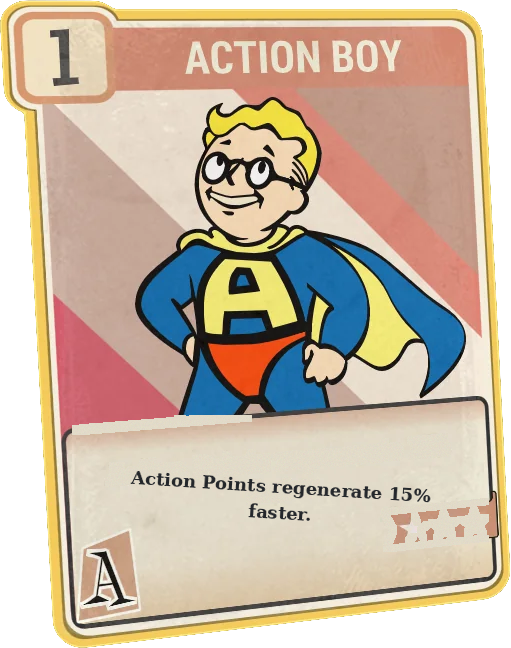
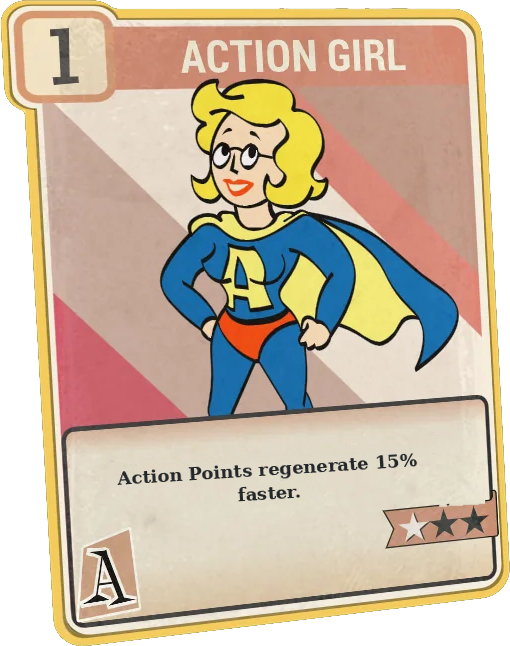
feat(perks): enable dynamic Vault Boy / Vault Girl profile swapping for gender-specific perks

diff --git a/src/lib/perks/catalog.test.ts b/src/lib/perks/catalog.test.ts
@@ -1,7 +1,7 @@
 import { describe, expect, it } from "vitest";
 import * as fs from "fs";
 import * as path from "path";
-import { getPerkCardById, searchPerkCards, filterPerksBySpecial, calculateSpecialCapacity, calculateLegendarySpecialBonuses } from "./catalog";
+import { getPerkCardById, searchPerkCards, filterPerksBySpecial, calculateSpecialCapacity, calculateLegendarySpecialBonuses, getGenderedPerkName } from "./catalog";
 import { getInGamePerkCardImage } from "./clean-perk-assets";
 
 describe("Perk Catalog Utilities", () => {
@@ -92,7 +92,12 @@ describe("1:1 In-Game Perk Card Asset Resolution Engine", () => {
       { id: "what-rads", rank: 4 },
       { id: "action-ghoul", rank: 1 },
       { id: "curator", rank: 1 },
-      { id: "woodchucker", rank: 1 }
+      { id: "woodchucker", rank: 1 },
+      { id: "action-girl", rank: 1 },
+      { id: "action-girl", rank: 3 },
+      { id: "aquagirl", rank: 1 },
+      { id: "party-girl", rank: 1 },
+      { id: "party-girl", rank: 2 },
     ];
 
     for (const { id, rank } of testCases) {
@@ -102,6 +107,46 @@ describe("1:1 In-Game Perk Card Asset Resolution Engine", () => {
       const fullPath = path.join(publicDir, relativePath);
       expect(fs.existsSync(fullPath), `Expected asset to exist: ${fullPath}`).toBe(true);
     }
+  });
+
+  it("should dynamically resolve gendered in-game perk cards based on isFemale flag", () => {
+    // Action Boy <-> Action Girl
+    expect(getInGamePerkCardImage("action-boy", 1, false)).toBe("/images/in_game_cards/action_boy_r1.png");
+    expect(getInGamePerkCardImage("action-boy", 1, true)).toBe("/images/in_game_cards/action_girl_r1.png");
+    expect(getInGamePerkCardImage("action-boy", 3, true)).toBe("/images/in_game_cards/action_girl_r3.png");
+    expect(getInGamePerkCardImage("action-girl", 1, false)).toBe("/images/in_game_cards/action_boy_r1.png");
+    expect(getInGamePerkCardImage("action-girl", 2, true)).toBe("/images/in_game_cards/action_girl_r2.png");
+
+    // Aquaboy <-> Aquagirl
+    expect(getInGamePerkCardImage("aquaboy", 1, false)).toBe("/images/in_game_cards/aquaboy_r1.png");
+    expect(getInGamePerkCardImage("aquaboy", 1, true)).toBe("/images/in_game_cards/aquagirl_r1.png");
+    expect(getInGamePerkCardImage("aquagirl", 1, false)).toBe("/images/in_game_cards/aquaboy_r1.png");
+    expect(getInGamePerkCardImage("aquagirl", 1, true)).toBe("/images/in_game_cards/aquagirl_r1.png");
+
+    // Party Boy <-> Party Girl
+    expect(getInGamePerkCardImage("party-boy", 1, false)).toBe("/images/in_game_cards/party_boy_r1.png");
+    expect(getInGamePerkCardImage("party-boy", 1, true)).toBe("/images/in_game_cards/party_girl_r1.png");
+    expect(getInGamePerkCardImage("party-boy", 2, true)).toBe("/images/in_game_cards/party_girl_r2.png");
+    expect(getInGamePerkCardImage("party-girl", 1, false)).toBe("/images/in_game_cards/party_boy_r1.png");
+    expect(getInGamePerkCardImage("party-girl", 2, true)).toBe("/images/in_game_cards/party_girl_r2.png");
+  });
+
+  it("should properly swap gendered perk names bidirectionally", () => {
+    // Male -> Female
+    expect(getGenderedPerkName("Action Boy", true)).toBe("Action Girl");
+    expect(getGenderedPerkName("Aquaboy", true)).toBe("Aquagirl");
+    expect(getGenderedPerkName("Party Boy", true)).toBe("Party Girl");
+
+    // Female -> Male
+    expect(getGenderedPerkName("Action Girl", false)).toBe("Action Boy");
+    expect(getGenderedPerkName("Aquagirl", false)).toBe("Aquaboy");
+    expect(getGenderedPerkName("Party Girl", false)).toBe("Party Boy");
+
+    // Idempotent when flag matches
+    expect(getGenderedPerkName("Action Girl", true)).toBe("Action Girl");
+    expect(getGenderedPerkName("Action Boy", false)).toBe("Action Boy");
+    expect(getGenderedPerkName("Bloody Mess", true)).toBe("Bloody Mess");
+    expect(getGenderedPerkName("Bloody Mess", false)).toBe("Bloody Mess");
   });
 });
 

diff --git a/src/lib/perks/perk-artwork.ts b/src/lib/perks/perk-artwork.ts
@@ -1,16 +1,8 @@
-import { SpecialCategory } from "@/lib/perks/catalog";
+import { SpecialCategory, getGenderedPerkName } from "@/lib/perks/catalog";
 import wikiArtMap from "./wiki-268-art-map.json";
 import exactArtMap from "./exact-268-art-map.json";
 
-export function getGenderedPerkName(name: string, isFemale = false): string {
-  if (!isFemale || !name) return name;
-  const lower = name.toLowerCase().trim();
-  if (lower === "action boy" || lower === "action-boy" || lower === "actionboy") return "Action Girl";
-  if (lower === "aquaboy" || lower === "aqua-boy" || lower === "aquaboy-aquagirl") return "Aquagirl";
-  if (lower === "party boy" || lower === "party-boy" || lower === "partyboy") return "Party Girl";
-  if (lower === "lady killer" || lower === "lady-killer" || lower === "ladykiller") return "Black Widow";
-  return name;
-}
+export { getGenderedPerkName };
 
 // 100% 1:1 Official In-Game WebP Artwork Loader for all 268 Perk Cards
 export function getPerkCardArtworkUrl(cardId: string, special: SpecialCategory, isFemale = false): string {
@@ -20,11 +12,15 @@ export function getPerkCardArtworkUrl(cardId: string, special: SpecialCategory, 
   
   let raw = cardId.toLowerCase().trim();
 
-  // Female Vault Girl Card Variant Swapping
+  // Dynamic Vault Boy / Vault Girl Variant Swapping
   if (isFemale) {
     if (raw === "action-boy" || raw === "action boy" || raw === "actionboy" || raw === "action-girl" || raw === "action girl" || raw === "actiongirl") raw = "action-girl";
     else if (raw === "party-boy" || raw === "party boy" || raw === "partyboy" || raw === "party-girl" || raw === "party girl" || raw === "partygirl") raw = "party-girl";
     else if (raw === "aquaboy" || raw === "aqua-boy" || raw === "aquaboy-aquagirl" || raw === "aquaticconcealment" || raw === "aquagirl" || raw === "aqua-girl") raw = "aquagirl";
+  } else {
+    if (raw === "action-boy" || raw === "action boy" || raw === "actionboy" || raw === "action-girl" || raw === "action girl" || raw === "actiongirl") raw = "action-boy";
+    else if (raw === "party-boy" || raw === "party boy" || raw === "partyboy" || raw === "party-girl" || raw === "party girl" || raw === "partygirl") raw = "party-boy";
+    else if (raw === "aquaboy" || raw === "aqua-boy" || raw === "aquaboy-aquagirl" || raw === "aquaticconcealment" || raw === "aquagirl" || raw === "aqua-girl") raw = "aquaboy";
   }
 
   const kebab = raw.replace(/\s+/g, "-").replace(/[^a-z0-9-]/g, "");

diff --git a/src/lib/perks/clean-perk-assets.ts b/src/lib/perks/clean-perk-assets.ts
@@ -82,7 +82,11 @@ export function getGhoulPerkCardImage(cardIdOrName?: string, rank: number = 1): 
 export const IN_GAME_STRAIGHT_CARDS: Record<string, string> = {
   // Standard & Reworked Perks (Official Bethesda Live Mechanics)
   "action-boy": "action_boy",
-  "action-girl": "action_boy",
+  "action-girl": "action_girl",
+  "aquaboy": "aquaboy",
+  "aquagirl": "aquagirl",
+  "party-boy": "party_boy",
+  "party-girl": "party_girl",
   "action-ghoul": "action_ghoul",
   "bullet-storm": "bullet_storm",
   "heavy-gunner": "bullet_storm",
@@ -152,10 +156,34 @@ export const IN_GAME_STRAIGHT_CARDS: Record<string, string> = {
   "feral-rage": "feral_rage",
 };
 
-export function getInGamePerkCardImage(cardIdOrName?: string, rank: number = 1): string | null {
+export function getInGamePerkCardImage(
+  cardIdOrName?: string,
+  rank: number = 1,
+  isFemale?: boolean
+): string | null {
   if (!cardIdOrName) return null;
   const key = cardIdOrName.toLowerCase().trim().replace(/[\s_]+/g, "-").replace(/[^a-z0-9-]/g, "");
-  const baseName = IN_GAME_STRAIGHT_CARDS[key] || key.replace(/-/g, "_");
+  let baseName = IN_GAME_STRAIGHT_CARDS[key] || key.replace(/-/g, "_");
+
+  // Dynamic gender swapping between Vault Boy and Vault Girl profiles
+  if (isFemale === true) {
+    if (key === "action-boy" || key === "action-girl" || key === "actionboy" || key === "actiongirl") {
+      baseName = "action_girl";
+    } else if (key === "aquaboy" || key === "aquagirl" || key === "aqua-boy" || key === "aqua-girl" || key === "aquaboy-aquagirl") {
+      baseName = "aquagirl";
+    } else if (key === "party-boy" || key === "party-girl" || key === "partyboy" || key === "partygirl") {
+      baseName = "party_girl";
+    }
+  } else if (isFemale === false) {
+    if (key === "action-boy" || key === "action-girl" || key === "actionboy" || key === "actiongirl") {
+      baseName = "action_boy";
+    } else if (key === "aquaboy" || key === "aquagirl" || key === "aqua-boy" || key === "aqua-girl" || key === "aquaboy-aquagirl") {
+      baseName = "aquaboy";
+    } else if (key === "party-boy" || key === "party-girl" || key === "partyboy" || key === "partygirl") {
+      baseName = "party_boy";
+    }
+  }
+
   const safeRank = Math.max(1, rank);
   return `/images/in_game_cards/${baseName}_r${safeRank}.png`;
 }

diff --git a/src/components/perks/in-game-perk-card.tsx b/src/components/perks/in-game-perk-card.tsx
@@ -364,7 +364,7 @@ export default function InGamePerkCard({
   // Check if official isolated vector foreground is available
   const cleanForeground = getCleanPerkForeground(cardId || name);
   const ghoulPerkImage = isGhoul ? getGhoulPerkCardImage(cardId || name, rank) : null;
-  const inGameCardImage = getInGamePerkCardImage(cardId || name, rank);
+  const inGameCardImage = getInGamePerkCardImage(cardId || name, rank, isFemale);
 
   const longPressTimerRef = React.useRef<NodeJS.Timeout | null>(null);
 
@@ -391,7 +391,7 @@ export default function InGamePerkCard({
     return { rank: inspectRank, cost, description };
   }, [fullCard, inspectRank, cost, description]);
 
-  const inGameInspectImage = getInGamePerkCardImage(cardId || name, inspectRankData.rank);
+  const inGameInspectImage = getInGamePerkCardImage(cardId || name, inspectRankData.rank, isFemale);
 
   const openWikiSource = React.useCallback(() => {
     window.open(`/wiki?q=${encodeURIComponent(name)}`, "_blank", "noopener,noreferrer");
@@ -659,7 +659,7 @@ export default function InGamePerkCard({
               <div className="space-y-1">
                 <div className="flex items-center gap-2">
                   <h3 className="text-lg sm:text-xl font-black uppercase text-amber-400 tracking-wider">
-                    {name}
+                    {displayName}
                   </h3>
                   <span className={`text-xs font-black px-2 py-0.5 rounded border uppercase ${theme.stampBg}`}>
                     {special}
@@ -696,7 +696,7 @@ export default function InGamePerkCard({
                   {inGameInspectImage ? (
                     <img
                       src={inGameInspectImage}
-                      alt={name}
+                      alt={displayName}
                       className="w-full h-full object-contain rounded-xl block drop-shadow-xl select-none"
                       loading="eager"
                       decoding="async"

diff --git a/src/lib/perks/catalog.ts b/src/lib/perks/catalog.ts
@@ -85,11 +85,17 @@ export function getPerkCardById(id: string): PerkCard | undefined {
 }
 
 export function getGenderedPerkName(name: string, isFemale = false): string {
-  if (!isFemale || !name) return name;
+  if (!name) return name;
   const lower = name.toLowerCase().trim();
-  if (lower === "action boy" || lower === "action-boy" || lower === "actionboy") return "Action Girl";
-  if (lower === "aquaboy" || lower === "aqua-boy" || lower === "aquaboy-aquagirl") return "Aquagirl";
-  if (lower === "party boy" || lower === "party-boy" || lower === "partyboy") return "Party Girl";
+  if (isFemale) {
+    if (lower === "action boy" || lower === "action-boy" || lower === "actionboy" || lower === "action girl" || lower === "action-girl" || lower === "actiongirl") return "Action Girl";
+    if (lower === "aquaboy" || lower === "aqua-boy" || lower === "aquaboy-aquagirl" || lower === "aquagirl" || lower === "aqua-girl") return "Aquagirl";
+    if (lower === "party boy" || lower === "party-boy" || lower === "partyboy" || lower === "party girl" || lower === "party-girl" || lower === "partygirl") return "Party Girl";
+  } else {
+    if (lower === "action boy" || lower === "action-boy" || lower === "actionboy" || lower === "action girl" || lower === "action-girl" || lower === "actiongirl") return "Action Boy";
+    if (lower === "aquaboy" || lower === "aqua-boy" || lower === "aquaboy-aquagirl" || lower === "aquagirl" || lower === "aqua-girl") return "Aquaboy";
+    if (lower === "party boy" || lower === "party-boy" || lower === "partyboy" || lower === "party girl" || lower === "party-girl" || lower === "partygirl") return "Party Boy";
+  }
   return name;
 }
 

diff --git a/scripts/generate_all_standard_cards.py b/scripts/generate_all_standard_cards.py
@@ -83,6 +83,43 @@ CARD_ALIASES = {
     "knee-capper": ["expert_slugger"],
 }
 
+# Explicit female Vault Girl variant cards
+FEMALE_CARDS = [
+    {
+        "id": "action-girl",
+        "name": "Action Girl",
+        "special": "A",
+        "minLevel": 2,
+        "maxRank": 3,
+        "ranks": [
+            {"rank": 1, "cost": 1, "description": "Action Points regenerate 15% faster."},
+            {"rank": 2, "cost": 2, "description": "Action Points regenerate 30% faster."},
+            {"rank": 3, "cost": 3, "description": "Action Points regenerate 45% faster."}
+        ]
+    },
+    {
+        "id": "aquagirl",
+        "name": "Aquagirl",
+        "special": "E",
+        "minLevel": 26,
+        "maxRank": 1,
+        "ranks": [
+            {"rank": 1, "cost": 1, "description": "You no longer take Rad damage from swimming and can breathe underwater."}
+        ]
+    },
+    {
+        "id": "party-girl",
+        "name": "Party Girl",
+        "special": "C",
+        "minLevel": 24,
+        "maxRank": 2,
+        "ranks": [
+            {"rank": 1, "cost": 2, "description": "The positive effects of pre-war alcohol are doubled."},
+            {"rank": 2, "cost": 3, "description": "The positive effects of pre-war alcohol are tripled."}
+        ]
+    }
+]
+
 # Authentic Bethesda reference donor cards by SPECIAL and target rank tier
 DONOR_CARDS = {
     ("S", 1): "blood-luster",
@@ -480,7 +517,7 @@ def main():
     force = ("--force" in args)
     filter_ids = [a for a in args if not a.startswith("--")]
 
-    standard_cards = [c for c in cards_data if c.get("special") != "LEGENDARY"]
+    standard_cards = [c for c in cards_data if c.get("special") != "LEGENDARY"] + FEMALE_CARDS
     if filter_ids:
         standard_cards = [c for c in standard_cards if c["id"] in filter_ids]
 
